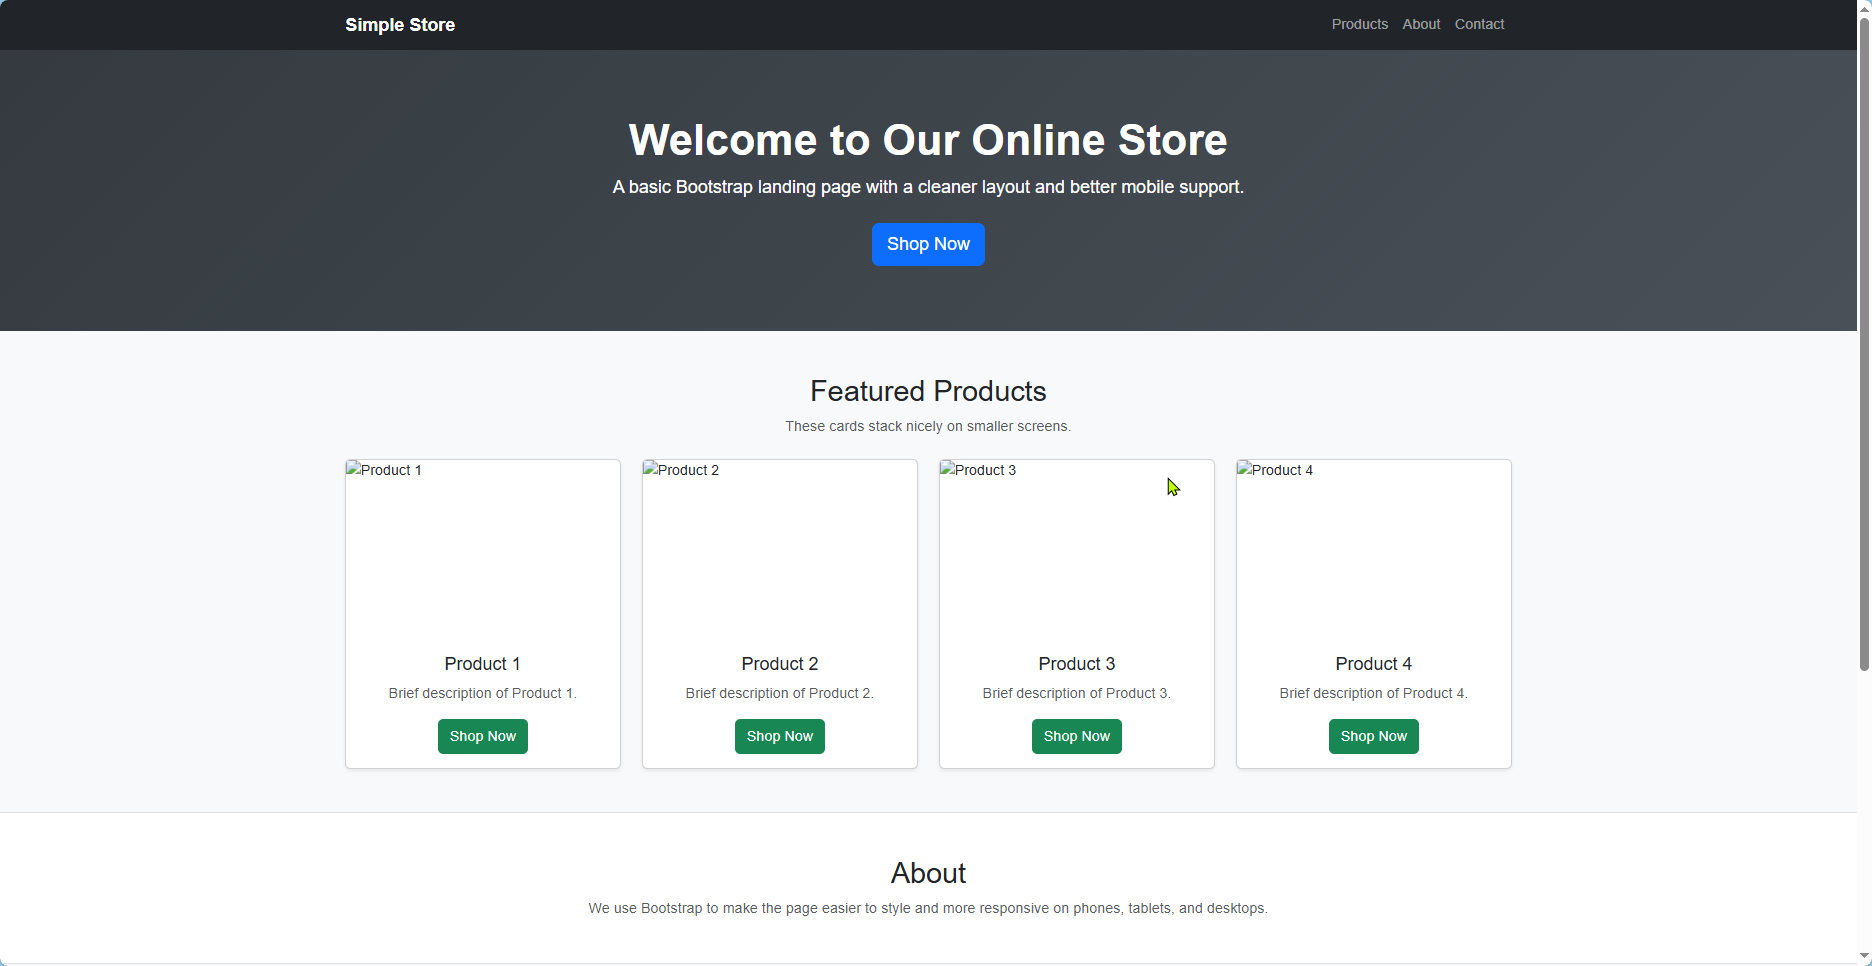
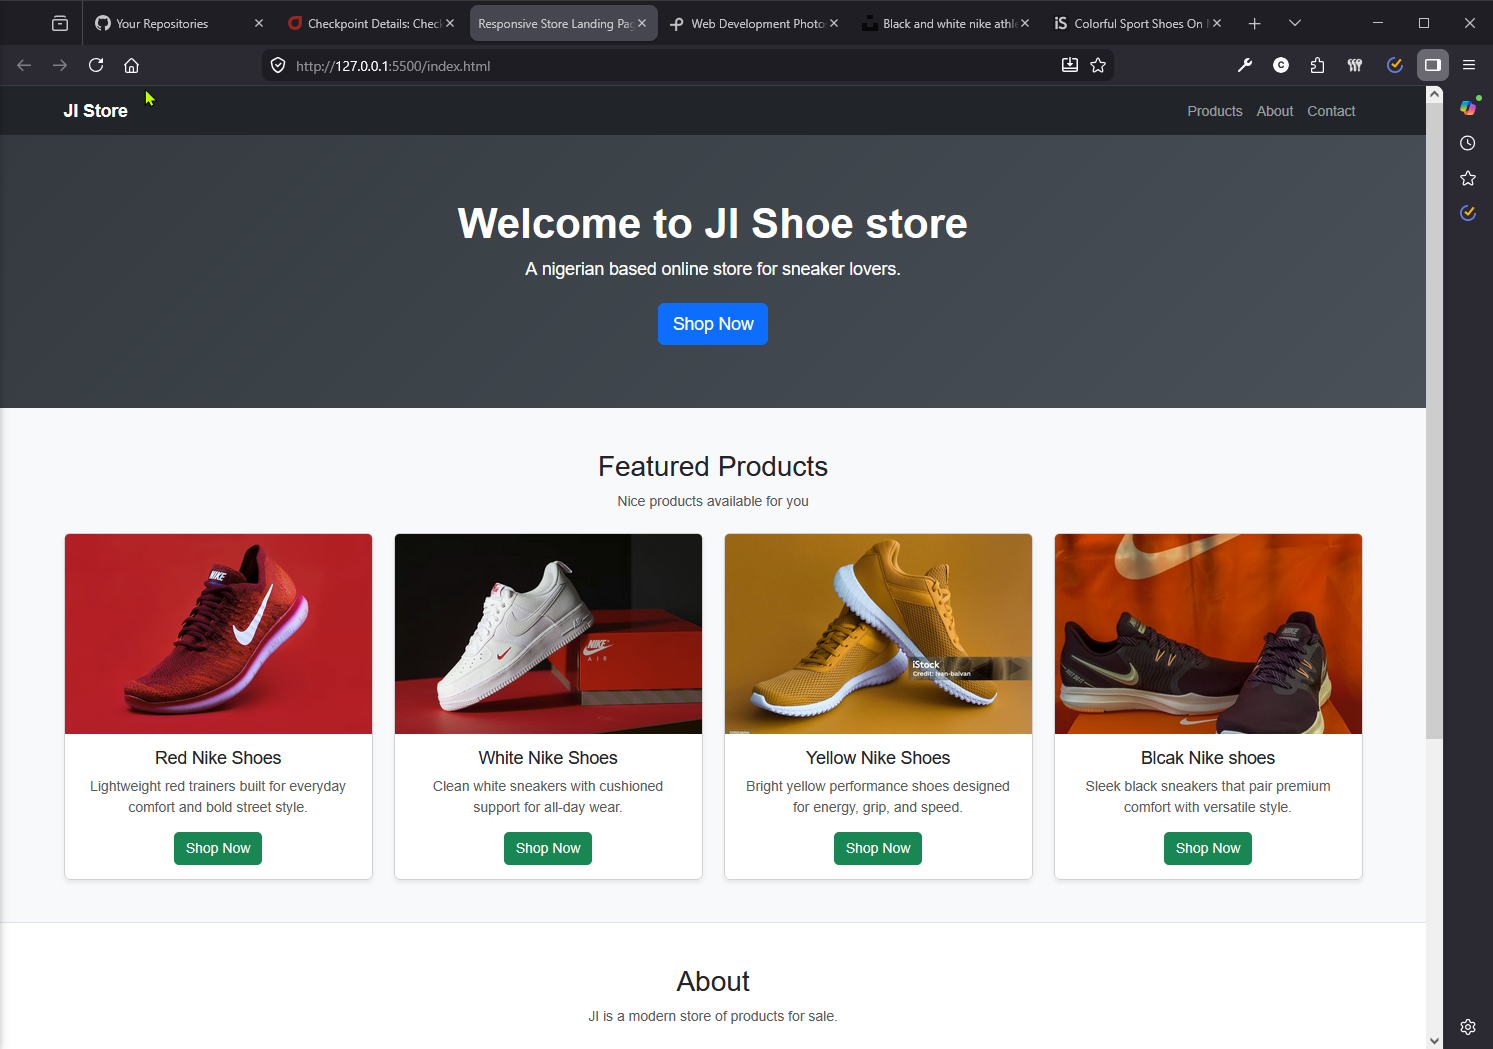
Completed Page

diff --git a/index.html b/index.html
@@ -14,10 +14,11 @@
 		<link rel="stylesheet" href="styles.css" />
 	</head>
 	<body class="bg-light">
+		<!-- Header for Navbars on Page title -->
 		<header>
 			<nav class="navbar navbar-expand-lg navbar-dark bg-dark">
 				<div class="container">
-					<a class="navbar-brand fw-bold" href="#">Simple Store</a>
+					<a class="navbar-brand fw-bold" href="#">JI Store</a>
 					<button
 						class="navbar-toggler"
 						type="button"
@@ -40,59 +41,78 @@
 
 			<section class="hero-section py-5 text-center text-white">
 				<div class="container py-4">
-					<h1 class="display-5 fw-bold">Welcome to Our Online Store</h1>
-					<p class="lead mb-4">
-						A basic Bootstrap landing page with a cleaner layout and better mobile support.
-					</p>
+					<h1 class="display-5 fw-bold">Welcome to JI Shoe store</h1>
+					<p class="lead mb-4">A nigerian based online store for sneaker lovers.</p>
 					<a class="btn btn-primary btn-lg" href="#products">Shop Now</a>
 				</div>
 			</section>
 		</header>
 
 		<main>
+			<!-- Featured producs container -->
 			<section id="products" class="py-5">
 				<div class="container">
 					<div class="text-center mb-4">
 						<h2>Featured Products</h2>
-						<p class="text-muted">These cards stack nicely on smaller screens.</p>
+						<p class="text-muted">Nice products available for you</p>
 					</div>
 					<div class="row g-4">
 						<div class="col-12 col-sm-6 col-lg-3">
 							<div class="card h-100 shadow-sm">
-								<img src="placeholder-image.jpg" class="card-img-top" alt="Product 1" />
+								<img
+									src="https://images.unsplash.com/photo-1542291026-7eec264c27ff?q=80&w=870&auto=format&fit=crop"
+									class="card-img-top"
+									alt="Nike Shoe" />
 								<div class="card-body text-center">
-									<h3 class="h5">Product 1</h3>
-									<p class="text-muted">Brief description of Product 1.</p>
+									<h3 class="h5">Red Nike Shoes</h3>
+									<p class="text-muted">
+										Lightweight red trainers built for everyday comfort and bold street style.
+									</p>
 									<button class="btn btn-success">Shop Now</button>
 								</div>
 							</div>
 						</div>
 						<div class="col-12 col-sm-6 col-lg-3">
 							<div class="card h-100 shadow-sm">
-								<img src="placeholder-image.jpg" class="card-img-top" alt="Product 2" />
+								<img
+									src="https://images.unsplash.com/photo-1712167631738-4dab9e53c853?q=80&w=870&auto=format&fit=crop"
+									class="card-img-top"
+									alt="Product 2" />
 								<div class="card-body text-center">
-									<h3 class="h5">Product 2</h3>
-									<p class="text-muted">Brief description of Product 2.</p>
+									<h3 class="h5">White Nike Shoes</h3>
+									<p class="text-muted">
+										Clean white sneakers with cushioned support for all-day wear.
+									</p>
 									<button class="btn btn-success">Shop Now</button>
 								</div>
 							</div>
 						</div>
 						<div class="col-12 col-sm-6 col-lg-3">
 							<div class="card h-100 shadow-sm">
-								<img src="placeholder-image.jpg" class="card-img-top" alt="Product 3" />
+								<img
+									src="https://media.istockphoto.com/id/1205526044/photo/colorful-sport-shoes-on-mustard-color-backround.jpg?s=1024x1024&w=is&k=20&c=QRedWDqwUR7eSAFA0Vgu2HR-MuDysFq2XHGtUgNbGns="
+									class="card-img-top"
+									alt="Product 3" />
 								<div class="card-body text-center">
-									<h3 class="h5">Product 3</h3>
-									<p class="text-muted">Brief description of Product 3.</p>
+									<h3 class="h5">Yellow Nike Shoes</h3>
+									<p class="text-muted">
+										Bright yellow performance shoes designed for energy, grip, and speed.
+									</p>
 									<button class="btn btn-success">Shop Now</button>
 								</div>
 							</div>
 						</div>
 						<div class="col-12 col-sm-6 col-lg-3">
 							<div class="card h-100 shadow-sm">
-								<img src="placeholder-image.jpg" class="card-img-top" alt="Product 4" />
+								<img
+									src="https://images.unsplash.com/photo-1585063395665-b8ad4acbb9af?q=80&w=870&auto=format&fit=crop"
+									class="card-img-top"
+									alt="Product 4" />
 								<div class="card-body text-center">
-									<h3 class="h5">Product 4</h3>
-									<p class="text-muted">Brief description of Product 4.</p>
+									<h3 class="h5">Blcak Nike shoes</h3>
+									<p class="text-muted">
+										Sleek black sneakers that pair premium comfort with versatile style.
+									</p>
 									<button class="btn btn-success">Shop Now</button>
 								</div>
 							</div>
@@ -101,20 +121,19 @@
 				</div>
 			</section>
 
+			<!-- About section -->
 			<section id="about" class="py-5 bg-white border-top border-bottom">
 				<div class="container">
 					<div class="row justify-content-center">
 						<div class="col-lg-8 text-center">
 							<h2>About</h2>
-							<p class="text-muted mb-0">
-								We use Bootstrap to make the page easier to style and more responsive on phones,
-								tablets, and desktops.
-							</p>
+							<p class="text-muted mb-0">JI is a modern store of products for sale.</p>
 						</div>
 					</div>
 				</div>
 			</section>
 
+			<!-- Contact Us Form -->
 			<section id="contact" class="py-5">
 				<div class="container">
 					<div class="row justify-content-center">
@@ -145,9 +164,10 @@
 			</section>
 		</main>
 
+		<!-- Footer -->
 		<footer class="bg-dark text-white text-center py-3">
 			<div class="container">
-				<p class="mb-0">&copy; 2026 Simple Store. All rights reserved.</p>
+				<p class="mb-0">&copy; 2026 JI Store. All rights reserved.</p>
 			</div>
 		</footer>
 

diff --git a/README.md b/README.md
@@ -11,6 +11,6 @@ The objective of this project is to create a responsive landing page for an onli
 - **Responsive Design**: Media queries are utilized to create a responsive layout that adjusts for various screen sizes, ensuring mobile-friendliness.
 
 ## Design Choices
-During the development process, the design choices were made to enhance user experience and visual appeal. The layout is clean and organized, with a focus on usability. The product cards are designed to be eye-catching, encouraging users to explore the products further. The use of a CSS framework (if implemented) will enhance the responsiveness and styling of the landing page.
+The design choices were made to enhance user experience and visual appeal, while keeping it simple. The layout is clean and organized, with a focus on usability by applying bootstrap.The use of a CSS framework, bootstrap will enhance the responsiveness and styling of the landing page.
 
 ![Webpage](images/image.png)
